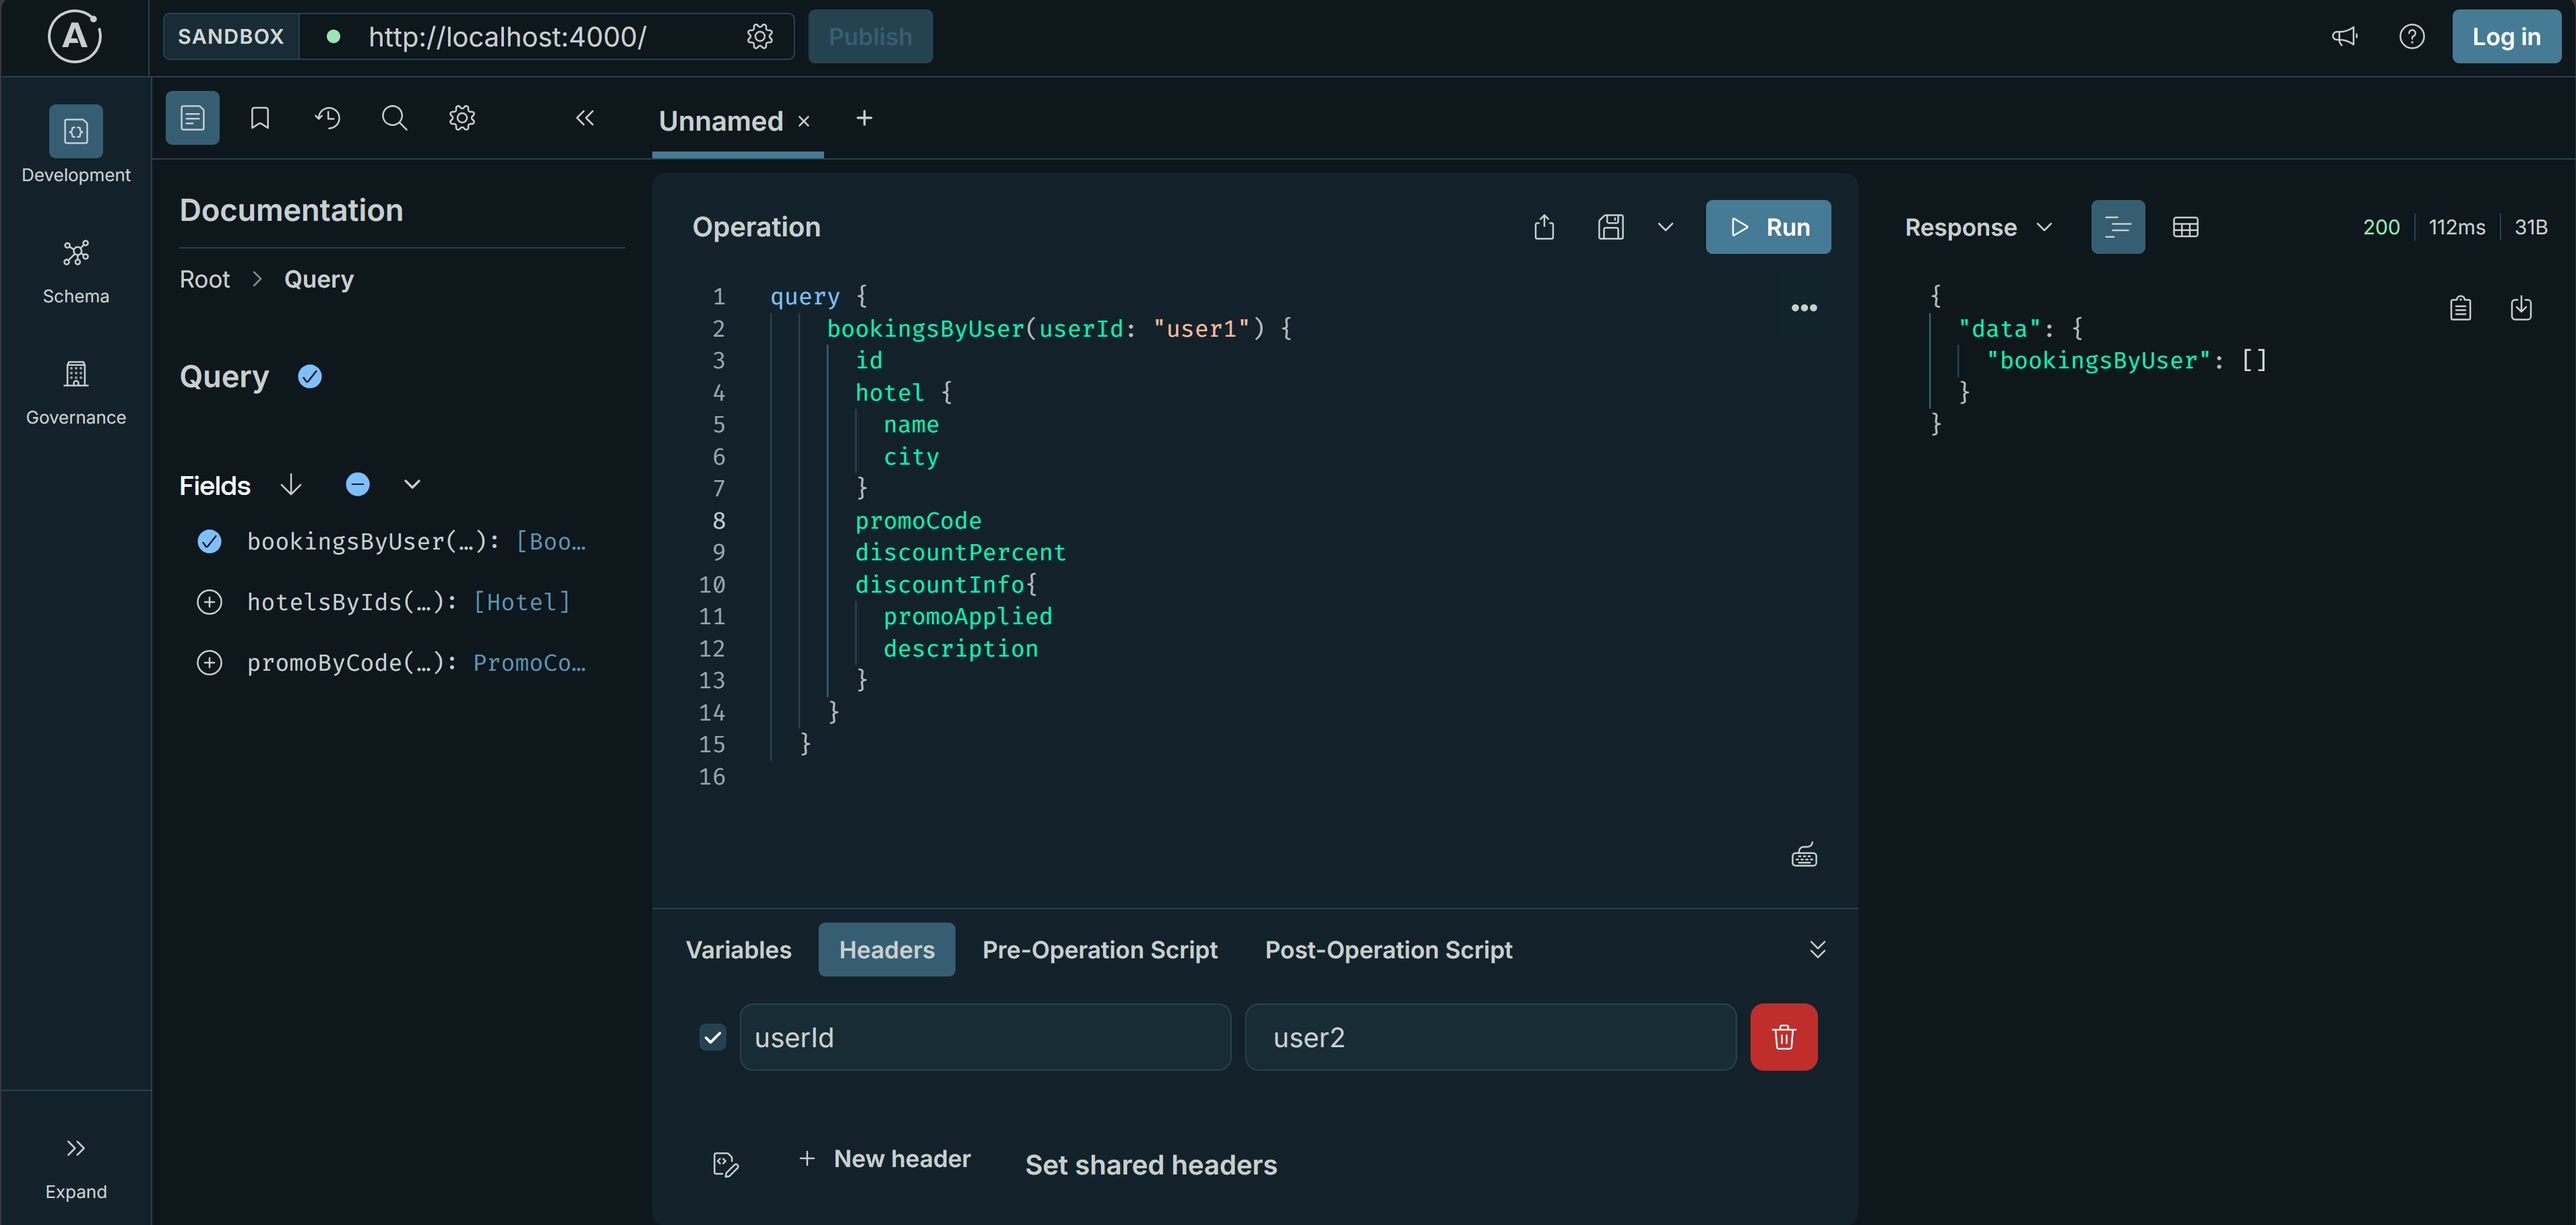
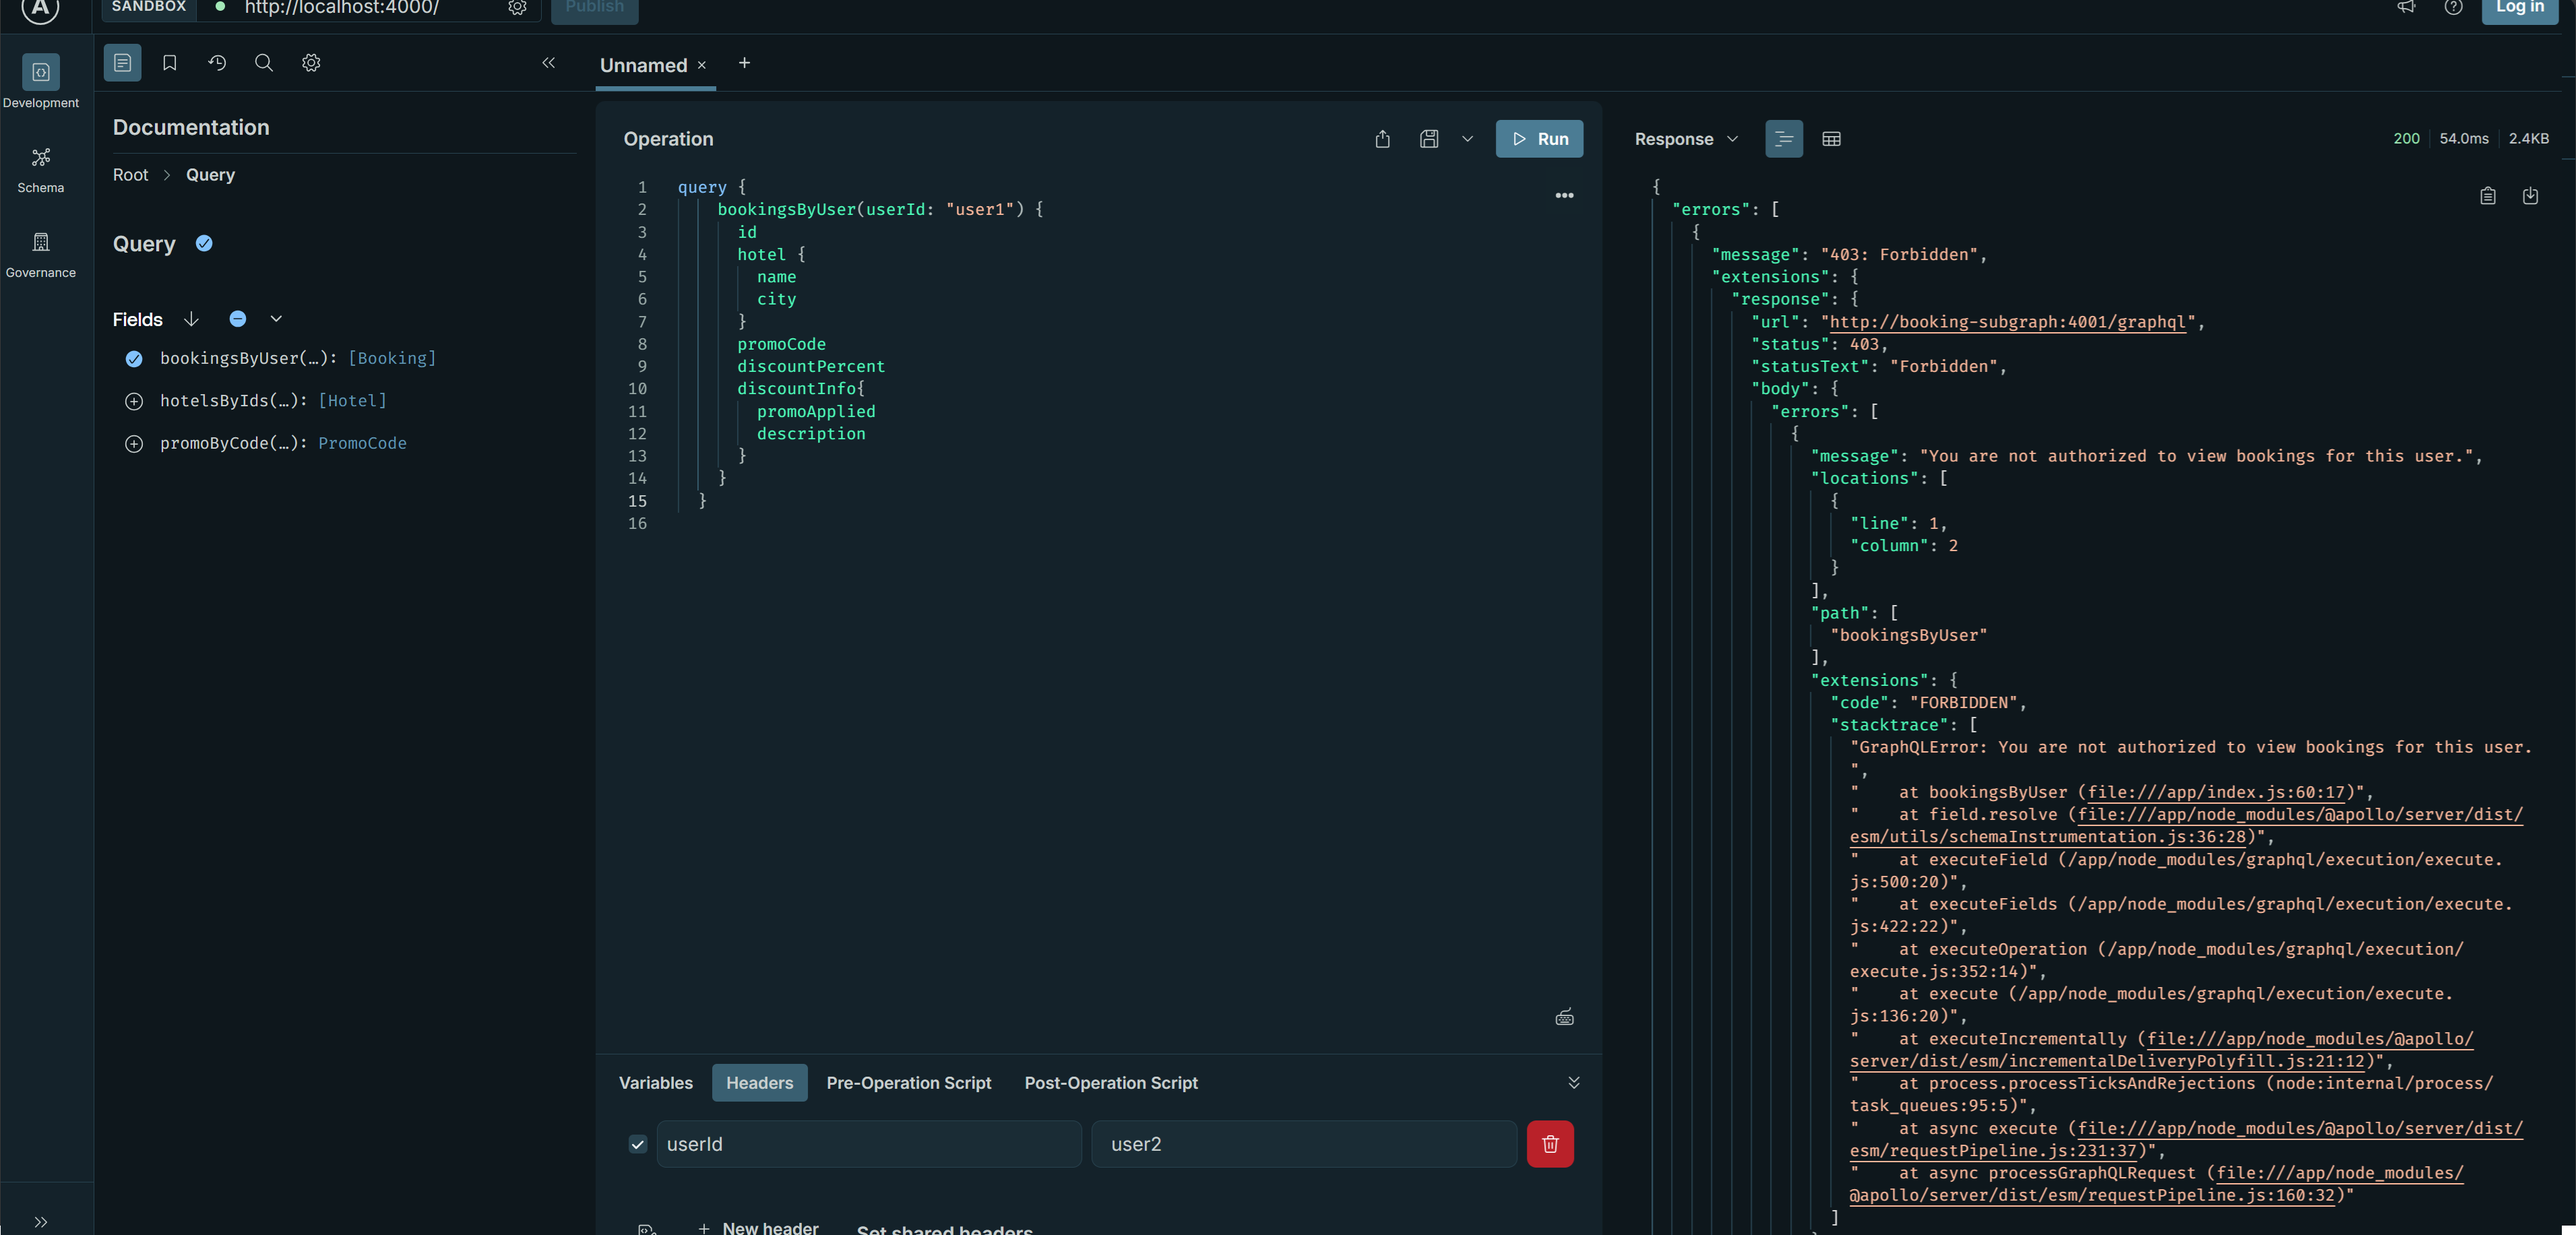
fix: task3 review reaction1

diff --git a/tasks/task3/booking-subgraph/index.js b/tasks/task3/booking-subgraph/index.js
@@ -2,6 +2,7 @@ import { ApolloServer } from '@apollo/server';
 import { startStandaloneServer } from '@apollo/server/standalone';
 import { buildSubgraphSchema } from '@apollo/subgraph';
 import gql from 'graphql-tag';
+import { GraphQLError } from 'graphql'; 
 
 const typeDefs = gql`
 extend schema
@@ -38,12 +39,33 @@ const resolvers = {
   Query: {
     bookingsByUser: async (_, { userId }, context) => {
 		// TODO: Реальный вызов к grpc booking-сервису или заглушка + ACL
-        const headers = context.req.headers;
+        const authenticatedUserId = context.req.headers['userid'];
 
-        if (!headers || headers['userid'] !== userId) {
-          console.log(`ACL FAILED for user: ${userId}`);
-          return [];
+        // 2. Проверяем наличие заголовка
+        if (!authenticatedUserId) {
+            console.error("Authenticated user ID header missing!");
+             throw new GraphQLError('Authentication required.', {
+                extensions: {
+                    code: 'UNAUTHENTICATED',
+                    http: { status: 401 },
+                },
+            });
         }
+        
+        // 3. Сравниваем ID пользователя из запроса с подтвержденным ID
+        if (authenticatedUserId !== userId) {
+          console.log(`ACL FAILED: User ${authenticatedUserId} attempted to access bookings for user ${userId}`);
+          
+          // Выбрасываем ошибку доступа (Forbidden)
+          throw new GraphQLError('You are not authorized to view bookings for this user.', {
+            extensions: {
+                code: 'FORBIDDEN',
+                http: { status: 403 },
+            },
+          });
+
+        }
+        
         
         console.log(`ACL PASSED for user: ${userId}. Proceeding with gRPC call.`);
         return mockBookings.filter(b => b.userId === userId);
